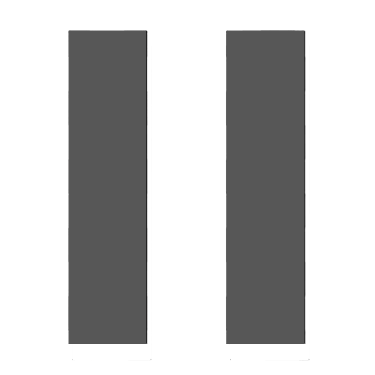
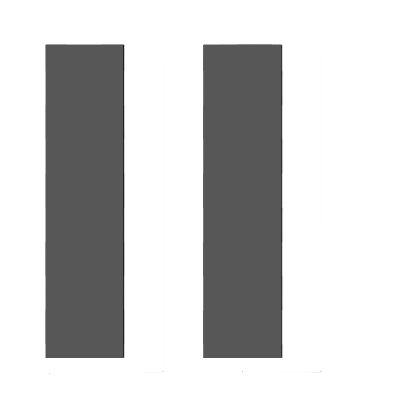
Audio player refactor and styling update

diff --git a/src/AudioPlayerComponent/AudioPlayer.js b/src/AudioPlayerComponent/AudioPlayer.js
@@ -1,0 +1,43 @@
+import React, { useState, useRef } from "react";
+import audio from '../music/rhone-song.mp3';
+import pauseIcon from '../images/pause-icon-grey.png';
+import playIcon from '../images/play-icon-grey.png';
+import './audioPlayer.css';
+
+// Audio Player component for a single song with play and pause functionality,
+// surrounded by a circlular text animation
+
+const AudioPlayer = () => {
+  const [isPlaying, setIsPlaying] = useState(false);
+  const audioRef = useRef();
+
+//original audio file is too loud
+  const setVolumeToHalf = () => {
+    audioRef.current.volume = 0.12;
+  };
+
+  const togglePlayPause = () => {
+    if (isPlaying) {
+      audioRef.current.pause();
+    } else {
+      audioRef.current.play();
+      setVolumeToHalf();
+    }
+    setIsPlaying(!isPlaying);
+  };
+
+  return (
+    <div>
+      <audio ref={audioRef} src={audio}  />
+      <img
+      className="playPauseContainer"
+        src={isPlaying ? pauseIcon : playIcon}
+        alt={isPlaying ? "Pause" : "Play"}
+        onClick={togglePlayPause}
+        style={{ cursor: "pointer" }}
+      />
+    </div>
+  );
+};
+
+export default AudioPlayer;

diff --git a/src/App.css b/src/App.css
@@ -36,51 +36,6 @@ body {
   font-family: 'Kufam', cursive; 
 }
 
-.circleImage {
-display: inline-block;
-float: right;
-vertical-align: initial;
-margin-top: 0;
-padding: 3%;
-margin: 0rem;
-width: 8%;
-  height: 8%;
-  
- animation: rotation infinite 27s linear;
- align-content: flex-end;
-}
-@keyframes rotation {
-  from {
-    transform: rotate(0deg);
-  }
-  to {
-    transform: rotate(359deg);
-  }
-}
-
-.playPause {
-width: 1.8%;
-height: 1.8%;
-display: inline-block;
-position: relative absolute;
-vertical-align: inherit;
-float: right;
-margin-top: 3%;
-margin-right: -11.1%;
-padding: 3%;
-}
-
-.playPauseRadio {
-width: 2rem;
-height: 2rem;
-float: right;
-margin-top: 5.5%;
-margin-right: -8.5%;
-z-index:+1;
-position:relative;
-cursor: pointer;
-}
-
 .bannerLinks {
   align-items: center;
   display: flex;
@@ -636,10 +591,6 @@ color: rgb(126, 126, 241);
     min-width: 100%;
     margin-left: 2%;
     margin-right: 2%;
-  }
-
-  .circleDiv, .circleImage, .playPauseRadio, .playPause {
-    display: none;
   }
   
   .titleName {

diff --git a/src/AudioPlayerComponent/audioPlayer.css b/src/AudioPlayerComponent/audioPlayer.css
@@ -1,0 +1,32 @@
+.circleImage {
+    display: flex;
+    float: right;
+    vertical-align: initial;
+    padding: 3%;
+    margin: 0rem;
+    width: 8%;
+      height: 8%;
+      
+     animation: rotation infinite 27s linear;
+     align-content: flex-end;
+    }
+    @keyframes rotation {
+      from {
+        transform: rotate(0deg);
+      }
+      to {
+        transform: rotate(359deg);
+      }
+    }
+    
+    .playPauseContainer {
+      width: 2.8%;
+      height: 2.8%;
+    float: right;
+    margin-top: 5.5%;
+    margin-right: -8.7%;
+    z-index:+1;
+    vertical-align: inherit;
+    position: relative;
+    cursor: pointer;
+    }

diff --git a/src/HomePage.js b/src/HomePage.js
@@ -7,7 +7,7 @@ import PlacesHome from './PlacesHome.js';
 import StandFor from './StandFor.js';
 import MiscSkills from './MiscSkills';
 import SayHello from './SayHello.js';
-import AudioPlayer from './Audio';
+import AudioPlayer from './AudioPlayerComponent/AudioPlayer';
 import circleText from './images/circle-text3.png';
 import rhoneFluteDark from './images/rhone-dark-flute2.jpg';
 import downArrow from './images/down-arrow-pretty.png';
